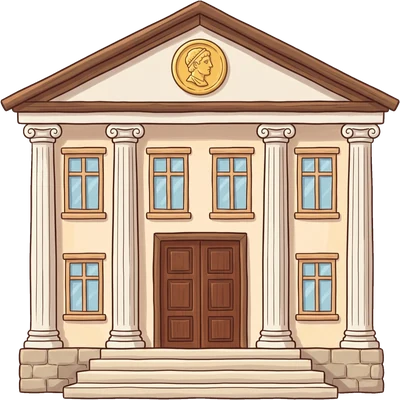
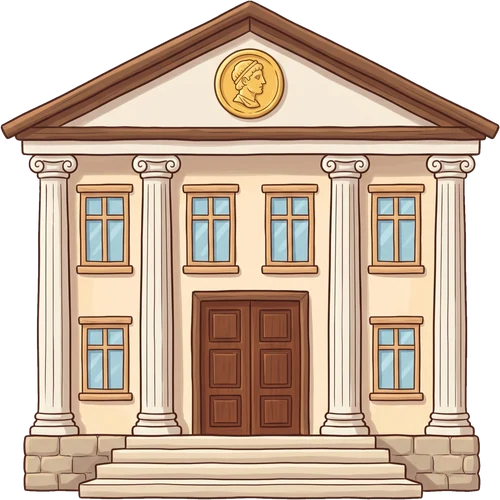
Make the bank larger and keep door-on-the-right shops out of the cut-off slot
The bank picture is square, so it came out shorter than its neighbours; it
now fits a 250 px box and sits just behind the buildings beside it. The
last slot runs off the right edge, so the bakery and jewellery shop (doors
on their right side) are never placed there, keeping their owners on screen.

Claude-Session: https://claude.ai/code/session_01LWw3MyEy6t2J8ZFQK4zs4E

diff --git a/src/town.ts b/src/town.ts
@@ -16,6 +16,11 @@ export interface Town {
 
 export function makeTown(): Town {
   const kinds = shuffle(['bakery', 'bank', 'jewelry', 'home'] as BuildingKind[]);
+  // The last slot runs off the right edge, so keep a centre-door building there.
+  if (kinds[3] === 'bakery' || kinds[3] === 'jewelry') {
+    const j = kinds.findIndex((k) => k === 'home' || k === 'bank');
+    [kinds[3], kinds[j]] = [kinds[j], kinds[3]];
+  }
   return {
     buildings: kinds.map((kind) => ({ kind })),
     backTree: pick(['apple', 'round', 'autumn'] as TreeStyle[]),

diff --git a/src/scene.ts b/src/scene.ts
@@ -160,7 +160,8 @@ export function buildScene(app: HTMLElement): Scene {
   });
 
   // The building row.
-  town.buildings.forEach((b, i) => picture(stage, placeBuilding(b.kind, i), BASE_Y - (i === 3 ? 1 : 0)));
+  // The wide bank sits slightly behind its neighbours so they overlap its edges.
+  town.buildings.forEach((b, i) => picture(stage, placeBuilding(b.kind, i), BASE_Y - (b.kind === 'bank' ? 2 : i === 3 ? 1 : 0)));
 
   // Street furniture.
   place(div('prop lamp', stage, art.lampSvg()), 506, 244, 502);

diff --git a/src/layout.ts b/src/layout.ts
@@ -25,7 +25,7 @@ export const BASE_Y = 470;
 // ---------- Buildings ----------
 
 /** Centre x of the four building slots (left to right). */
-export const SLOT_CX = [445, 790, 985, 1170];
+export const SLOT_CX = [445, 785, 962, 1130];
 
 export interface Placed {
   art: BuildingArt;

diff --git a/tools/prepare_art.py b/tools/prepare_art.py
@@ -30,7 +30,7 @@ MAGENTA = (255, 0, 255)
 BUILDINGS = {
     'home': {'box': (200, 240), 'door': 0.5, 'erase': [(0, 640, 492, 1140)], 'seeds': []},
     'bakery': {'box': (200, 240), 'door': 0.8, 'erase': [], 'seeds': [(300, 760), (420, 760)]},
-    'bank': {'box': (200, 240), 'door': 0.5, 'erase': [], 'seeds': []},
+    'bank': {'box': (250, 250), 'door': 0.5, 'erase': [], 'seeds': []},
     'jewelry': {'box': (200, 240), 'door': 0.79, 'erase': [], 'seeds': [(300, 760), (420, 760)]},
     'station': {'box': (330, 290), 'door': 0.5, 'erase': [], 'seeds': []},
 }
